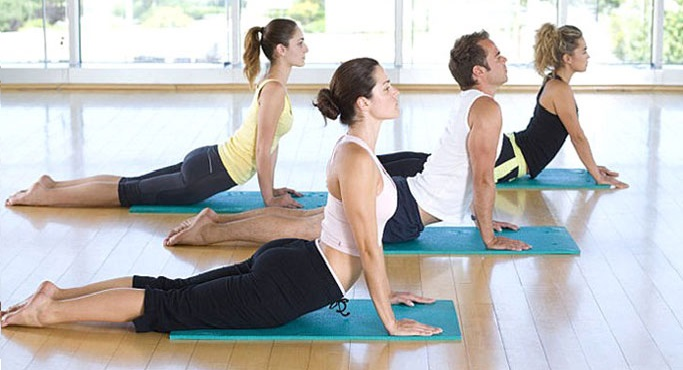
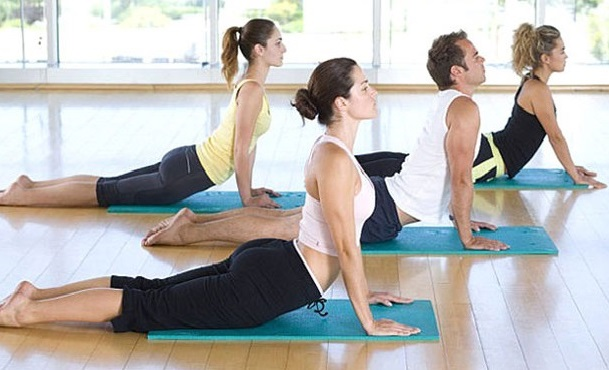
plaatjes gesneden en a's ervan gemaakt in de index

diff --git a/index.php b/index.php
@@ -70,22 +70,22 @@
                 <h2 class="page-header">Onze lessen</h2>
             </div>
             <div class="col-md-2 col-sm-4 col-xs-6">
-                <img class="img-responsive customer-img" src="http://placehold.it/500x300" alt="">
+                <a href="bodyshape.php">Body Shape<img class="img-responsive customer-img" src="img/groep1.png" alt=""></a>
             </div>
             <div class="col-md-2 col-sm-4 col-xs-6">
-                <img class="img-responsive customer-img" src="http://placehold.it/500x300" alt="">
+                <a href="callanetics.php"><img class="img-responsive customer-img" src="img/groep2.png" alt="">Callanetics</a>
             </div>
             <div class="col-md-2 col-sm-4 col-xs-6">
-                <img class="img-responsive customer-img" src="http://placehold.it/500x300" alt="">
+                <a href="sportiefwandelen.php">Sportief wandelen<img class="img-responsive customer-img" src="img/groep3.png" alt=""></a>
             </div>
             <div class="col-md-2 col-sm-4 col-xs-6">
-                <img class="img-responsive customer-img" src="http://placehold.it/500x300" alt="">
+                <a href="highshape.php"><img class="img-responsive customer-img" src="img/groep4.png" alt="">High Shape</a>
             </div>
             <div class="col-md-2 col-sm-4 col-xs-6">
-                <img class="img-responsive customer-img" src="http://placehold.it/500x300" alt="">
+                <a href="latinfunmoves.php">Latin Fun Moves<img class="img-responsive customer-img" src="img/groep5.png" alt=""></a>
             </div>
             <div class="col-md-2 col-sm-4 col-xs-6">
-                <img class="img-responsive customer-img" src="http://placehold.it/500x300" alt="">
+                <a href="boksdance.php"><img class="img-responsive customer-img" src="img/groep6.png" alt="">Boksdance</a>
             </div>
             </div>
         <hr>
